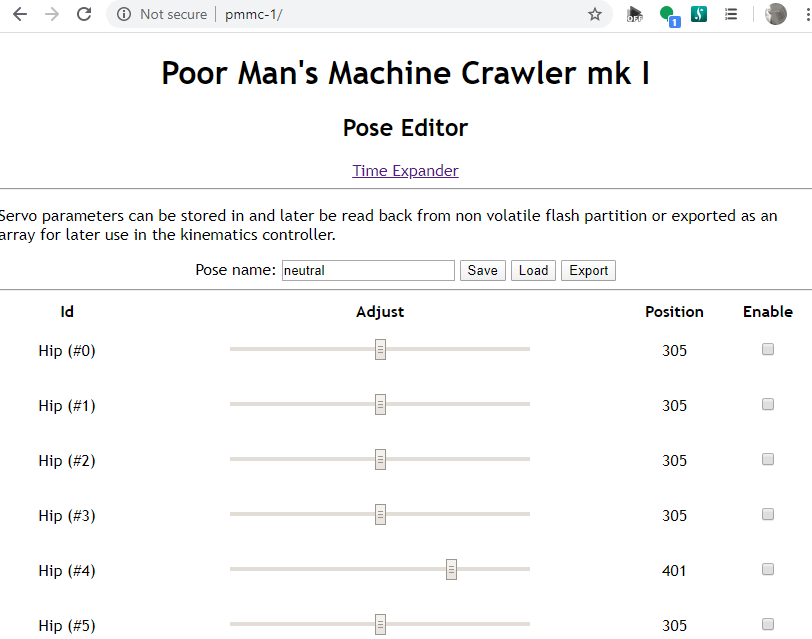
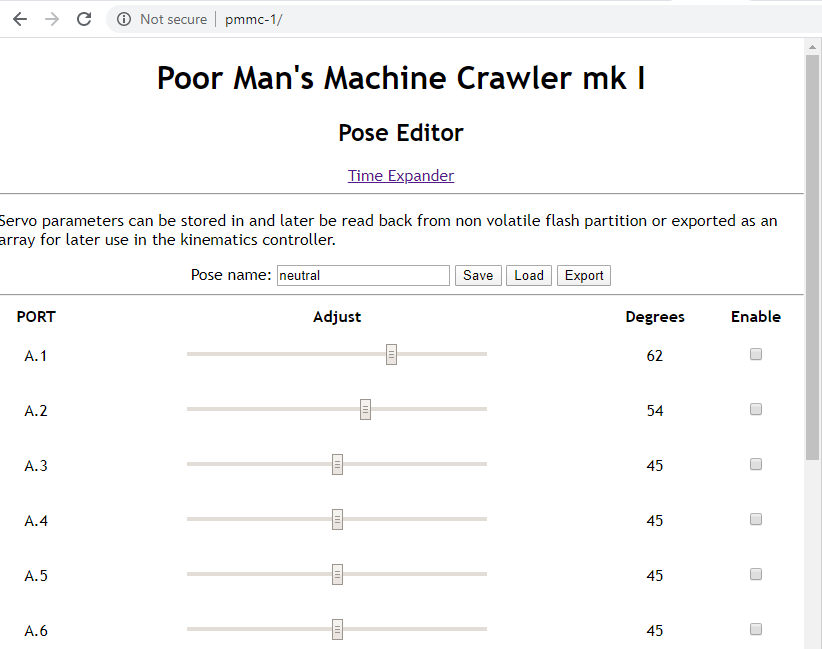
Default profile and pin mapping
* Fixed missing call to driver_B in Automaton::disableAll()
* Fixed issue where ticking "enable" in configuration page wouldn't update the servo position according to the slider.
* Now checking for the existense of a "neutral" profile after boot. If it exists, servo parameters will be loaded from this profile and servos are enabled. If it doesn't exist, the servos are disabled.
* Now using a more intuitive 0-90 degree range in the gui. Automaton converts degrees to pwm_count in trim() method.
* Fixed NVS loading of stored parameters via config page.
* Updated screen shot of configuration page

diff --git a/firmware/src/config_page.cpp b/firmware/src/config_page.cpp
@@ -52,9 +52,9 @@ String config_page = R"TEMPLATE(
 
     <table id="servotable" style="width:100%">
       <tr>
-        <th>Id</th>
+        <th>PORT</th>
         <th>Adjust</th>
-        <th>Position</th>
+        <th>Degrees</th>
         <th>Enable</th>
       </tr>
     </table>  
@@ -70,15 +70,14 @@ String config_page = R"TEMPLATE(
       
       var row = table.insertRow(rowCount);
 
-      if (servoId < 8)
-        row.insertCell(0).innerHTML= 'Hip (#' + servoId + ')';
-      else if (servoId < 16)
-        row.insertCell(0).innerHTML= 'Knee (#' + servoId + ')';
-      else if (servoId < 24)
-      row.insertCell(0).innerHTML= 'Ankle (#' + servoId + ')';
+      let pins = ['A.1', 'A.2', 'A.3', 'A.4', 'A.5', 'A.6', 'A.7', 'A.8', 
+                  'B.1', 'B.2', 'B.3', 'B.4', 'B.5', 'B.6', 'B.7', 'B.8', 
+                  'C.1', 'C.2', 'C.3', 'C.4', 'C.5', 'C.6', 'C.7', 'C.8', 
+                  'D.1', 'D.2', 'D.3', 'D.4', 'D.5', 'D.6', 'D.7', 'D.8']
 
+      row.insertCell(0).innerHTML= pins[servoId];
 
-      row.insertCell(1).innerHTML= '<input type="range" min="110" max="500" class="slider" id="servoSlider' + servoId + '" onchange="servoAdjust(' + servoId + ',' + this.value + ')"/>';
+      row.insertCell(1).innerHTML= '<input type="range" min="0" max="90" class="slider" id="servoSlider' + servoId + '" onchange="servoAdjust(' + servoId + ')"/>';
       row.insertCell(2).innerHTML= '<p><span id="servoPos' + servoId + '"></span></p>';
       row.insertCell(3).innerHTML= '<input type="checkbox" id="servo' + servoId + '" name="servo' + servoId + '" value="servo' + servoId + '" onclick="enable_servo(' + servoId + ',this)">';
     }
@@ -95,7 +94,7 @@ String config_page = R"TEMPLATE(
       }
     }
 
-    for (i = 0; i < 24; i++) 
+    for (i = 0; i < 32; i++) 
     {
       addServoControl(i);
       displayServoPosition(i);
@@ -105,7 +104,8 @@ String config_page = R"TEMPLATE(
     console.log(table)
 
     $.ajaxSetup({timeout:1000});
-    function servoAdjust(id, pos) 
+
+    function servoTrim(id)
     {
       var slider = document.getElementById("servoSlider" + id);
       var servoP = document.getElementById("servoPos" + id);
@@ -118,11 +118,17 @@ String config_page = R"TEMPLATE(
       }
 
       $.get("/trim?id=" + id + "&pos=" + slider.value); 
+    }
+
+    function servoAdjust(id) 
+    {
+      servoTrim(id);
       {Connection: close};
     }
   
     function enable_servo(id, cb) 
     {
+      servoTrim(id);
       $.get("/enable?id=" + id + "&enable=" + cb.checked);
       {Connection: close};
     }
@@ -131,13 +137,13 @@ String config_page = R"TEMPLATE(
     {
       console.log("Flash Save");
       var params
-      for (i=0; i<24; i++)
+      for (i=0; i<32; i++)
       {
         var slider = document.getElementById("servoSlider" + i);
         prefix = "s" + i + "="
         if (i==0)
           params = prefix + slider.value + '&'
-        else if (i<23)
+        else if (i<31)
           params += prefix + slider.value + '&'
         else
           params += prefix + slider.value
@@ -156,6 +162,15 @@ String config_page = R"TEMPLATE(
       var poseName = document.getElementById("poseName");
       $.get("/load?pose=" + poseName.value, function(data, status) 
       {
+        var degrees = data.split(" ");
+        console.log("Degrees array size: " + degrees.length)
+        for (i=0; i<32; i++)
+        {
+          console.log("Servo #" + i + " degrees: " + degrees[i]);
+          var slider = document.getElementById("servoSlider" + i);
+
+          slider.value = degrees[i];
+        }
         console.log("Data:" + data);
         console.log("Status:" + status);
       });
@@ -164,6 +179,7 @@ String config_page = R"TEMPLATE(
       var servoP = document.getElementById("servoPos0");
       slider.value = 180;
       servoP.innerHTML = 180;
+      {Connection: close};
     }
 
     function ExportPose() 

diff --git a/firmware/src/automaton.cpp b/firmware/src/automaton.cpp
@@ -17,6 +17,7 @@
 #include <Arduino.h>
 #include <Wire.h>
 #include <Adafruit_PWMServoDriver.h>
+#include <ArduinoNvs.h>
 #include "automaton.h"
 
 Adafruit_PWMServoDriver driver_A(0x41);
@@ -28,8 +29,8 @@ Automaton::Automaton()
     // This will have to be tuned in the configuration settings later.
     for (int i : _pwm)
     {
-        _pwm[i] = SERVOMID;
-        _enable[i] = false;
+        _pwm[i] = SERVO_MID;
+        _enable[i] = true;
     }
 }
 
@@ -50,15 +51,18 @@ void Automaton::begin()
     pinMode(GPIO_NUM_25, OUTPUT);
     digitalWrite(GPIO_NUM_23, LOW);
     digitalWrite(GPIO_NUM_25, LOW);
+
+    disableAll();
 }
 
 
 void Automaton::disableAll()
 {
     // This is not a "true" enable, since the servos will still have power.
-    for (int i=0; i<MAX_SERVO_NUM; i++)
+    for (int i=0; i<16; i++)
     {
-        driver_A.setPWM(i, 0, 0);
+        driver_A.setPWM(i, 0, 4096);
+        driver_B.setPWM(i, 0, 4096);
     }
 }
 
@@ -72,13 +76,42 @@ void Automaton::enable(int servoId, bool enable)
     Adafruit_PWMServoDriver * driver;
     int internalId = servoId;
 
+
     if (servoId < 16)
+    {
+        Serial.println("Enabling Driver A");
         driver = &driver_A;
+    }
     else
     {
-        internalId = servoId-16;
+        Serial.println("Enabling Driver B");
         driver = &driver_B;
     }
+
+    // Blame the braniac, who decided to make the schematic prettier...
+    /*
+    if (servoId < 8)
+        internalId = 8-servoId-1;
+    else if (servoId < 16)
+        internalId = 16-servoId+7;
+    else if (servoId < 24 )
+        internalId = 8-(servoId-16)-1;
+    else if (servoId < 32)
+        internalId = 16-(servoId+7);
+    */        
+    if (servoId < 8)
+        internalId = 7-servoId;
+    else if (servoId < 16)
+        internalId = 23-servoId;
+    else if (servoId < 24 )
+        internalId = 23-servoId;
+     else if (servoId < 32)
+        internalId = 31-servoId+8;    
+
+        //23: -1 -8
+
+
+     Serial.printf("ServoId: %d, Internal ID: %d (enabled: %d, pwm: %d)\n", servoId, internalId, enable, _pwm[servoId]);
     
     if (enable)
         driver->setPWM(internalId, 0, _pwm[servoId]);
@@ -86,10 +119,31 @@ void Automaton::enable(int servoId, bool enable)
         driver->setPWM(internalId, 0, 4096);
 }
 
-void Automaton::trim(int servoId, int value)
+void Automaton::trim(int servoId, int degrees)
 {
-    _pwm[servoId] = value;
+    int pwm_count = (degrees*200) / 90 + SERVO_MIN;
+    _pwm[servoId] = pwm_count;
     enable(servoId, _enable[servoId]);
+}
+
+
+void Automaton::selectPose(String name)
+{
+    uint8_t parameterBlob[MAX_SERVO_NUM];
+
+    if (!NVS.getBlob(name.c_str(), parameterBlob, MAX_SERVO_NUM))
+    {
+        Serial.printf("ERROR: loading pose '%s' failed.\n", name.c_str());
+    }
+    Serial.printf("INFO: loaded pose '%s' ok.\n", name.c_str());
+    for (int i=0; i<MAX_SERVO_NUM; i++)
+    {
+        _pwm[i] = parameterBlob[i];
+        trim(i, _pwm[i]);
+        _enable[i] = true;
+        enable(i, _enable[i]);
+    }
+
 }
 
 

diff --git a/firmware/src/main.cpp b/firmware/src/main.cpp
@@ -20,6 +20,7 @@
 #include <AsyncTCP.h>
 #include <ESPAsyncWebServer.h>
 #include <ArduinoNvs.h>
+#include <wire.h>
 #include "automaton.h"
 
 extern String config_page;
@@ -32,9 +33,11 @@ void notFound(AsyncWebServerRequest *request)
     request->send(404, "text/plain", "Not found");
 }
 
+
 void setup() 
 {
     Serial.begin(115200);
+
 
     // Initialize the servo controller
     automaton.begin();
@@ -65,6 +68,10 @@ void setup()
 
     Serial.print("IP Address: ");
     Serial.println(WiFi.localIP());
+
+    // Check for the existense of a neutral/zero pose in non volatile memory.
+    // If it exists, we'll load it and update the corresponding servo positions.
+    automaton.selectPose("neutral");
 
     // http://pmmc-1 will return the configuration page. This allows the user to interactively
     // manipulate servo positions, create poses and also store this
@@ -101,20 +108,21 @@ void setup()
         String servoParam;
         char servo[5];
         String poseName = "default";
-        uint8_t parameterBlob[24];
+        uint8_t parameterBlob[MAX_SERVO_NUM];
 
         if (request->hasParam("pose")) 
         {
             poseName = request->getParam("pose")->value();
         }
 
-        for (int i=0; i<24; i++)
+        for (int i=0; i<MAX_SERVO_NUM; i++)
         {
             sprintf(servo, "s%d", i);
             if (request->hasParam(servo)) 
             {
                 servoParam = request->getParam(servo)->value();
                 parameterBlob[i] = atoi(servoParam.c_str());
+                // Serial.printf("Saving %d : %d\n", i, atoi(servoParam.c_str()));
             } 
         }
 
@@ -128,10 +136,6 @@ void setup()
     //          the sliders in the configuration page accordingly
     server.on("/load", HTTP_GET, [] (AsyncWebServerRequest *request) 
     {
-        // TODO:    1) Send parameters back to web page
-        //          2) Error if not found by name
-        //          3) Disable all servos 
-
         String poseName;
         if (request->hasParam("pose")) 
         {
@@ -143,14 +147,18 @@ void setup()
         size_t blobLength = NVS.getBlobSize(poseName);   
         Serial.printf("Size of %s pose: %d\n", poseName.c_str(), blobLength);
 
-        uint8_t parameterBlob[24];
+        uint8_t parameterBlob[MAX_SERVO_NUM];
         NVS.getBlob(poseName, parameterBlob, sizeof(parameterBlob));
-        for (int i=0; i<24; i++)
+        String responseData;
+        for (int i=0; i<MAX_SERVO_NUM; i++)
         {
-            Serial.printf("Loaded: s%d : %d\n", i, parameterBlob[i]);
+            Serial.printf("Loaded: s%d : %u\n", i, parameterBlob[i]);
+            responseData += String(parameterBlob[i]);
+            if (i < MAX_SERVO_NUM-1)
+                responseData += " ";
         }
 
-        request->send(200, "text/html", "OK");
+        request->send(200, "text/html", responseData);
     });
 
         // 1) "trim" - Adjusts servo position according to corresponding slider in configuration page

diff --git a/firmware/src/automaton.h b/firmware/src/automaton.h
@@ -18,9 +18,9 @@
 
 const int MAX_SERVO_NUM = 32;
 
-const int SERVOMIN = 204;
-const int SERVOMAX = 409;
-const int SERVOMID = (SERVOMAX + SERVOMIN) / 2;
+const int SERVO_MIN = 200;
+const int SERVO_MAX = 400;
+const int SERVO_MID = (SERVO_MAX + SERVO_MIN) / 2;
 
 class Automaton
 {
@@ -28,7 +28,9 @@ class Automaton
         Automaton();
         void begin();
         void enable(int servoId, bool enable);
-        void trim(int servoId, int value);
+        void trim(int servoId, int degrees);
+
+        void selectPose(String name);
 
     private:
         int _pwm[MAX_SERVO_NUM];

diff --git a/hardware/README.md b/hardware/README.md
@@ -28,8 +28,12 @@ http://pmmc-1/
 
 The same web server exposes a simple API that allows you to manipulate the servos in order to create poses. These poses can then be associated with a key and stored in NV memory.
 
-# Servo wiring
+# Recommended Servo wiring
 
-PORT	PIN	SERVO
+(ESP pointing north. Counting clockwise)
+
+## Function Port
 
 TBD
+
+
